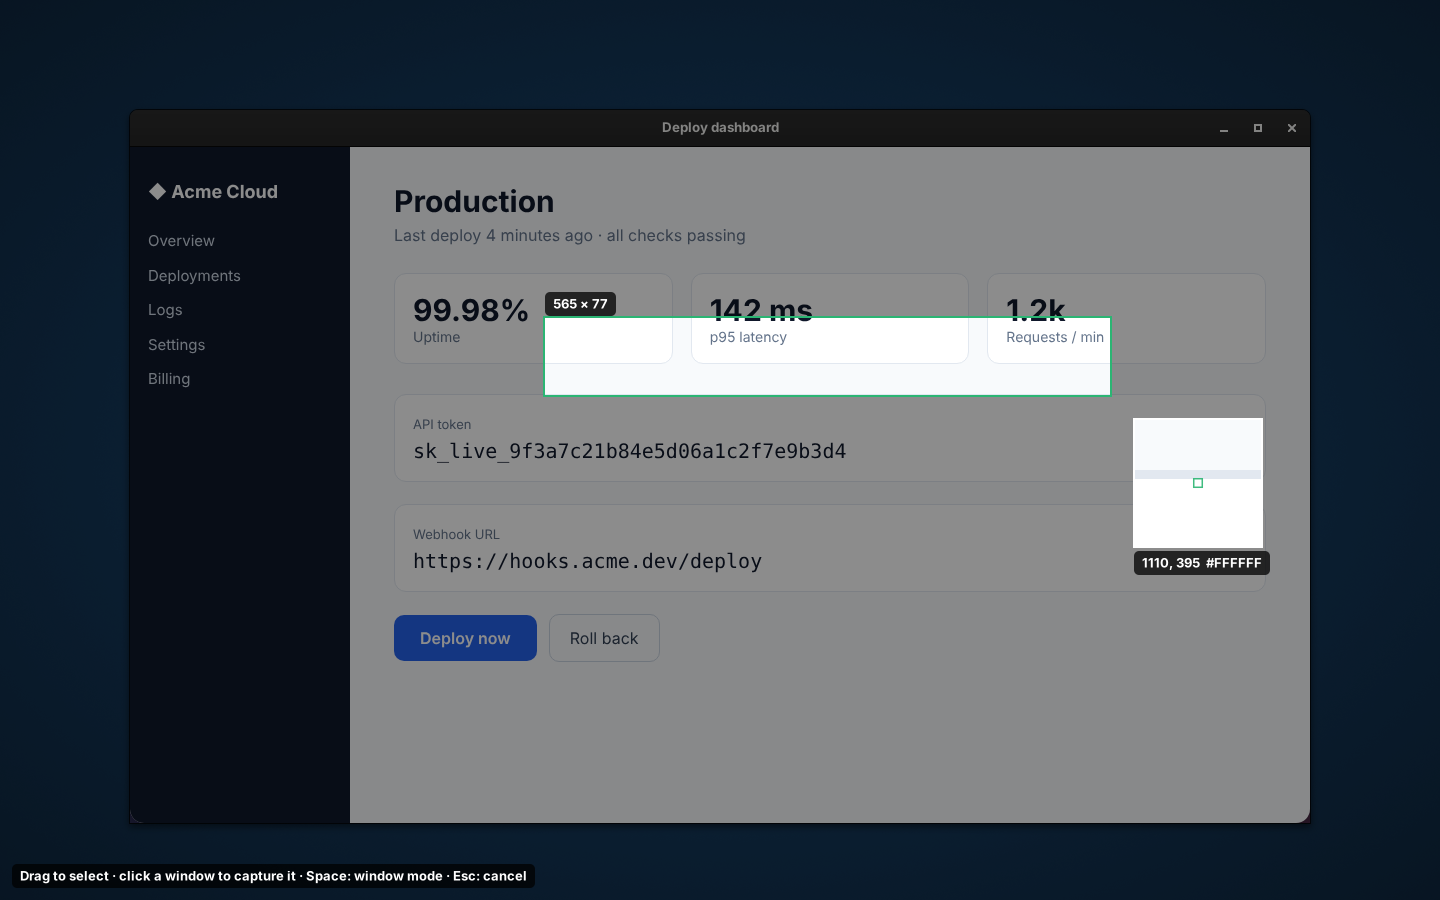
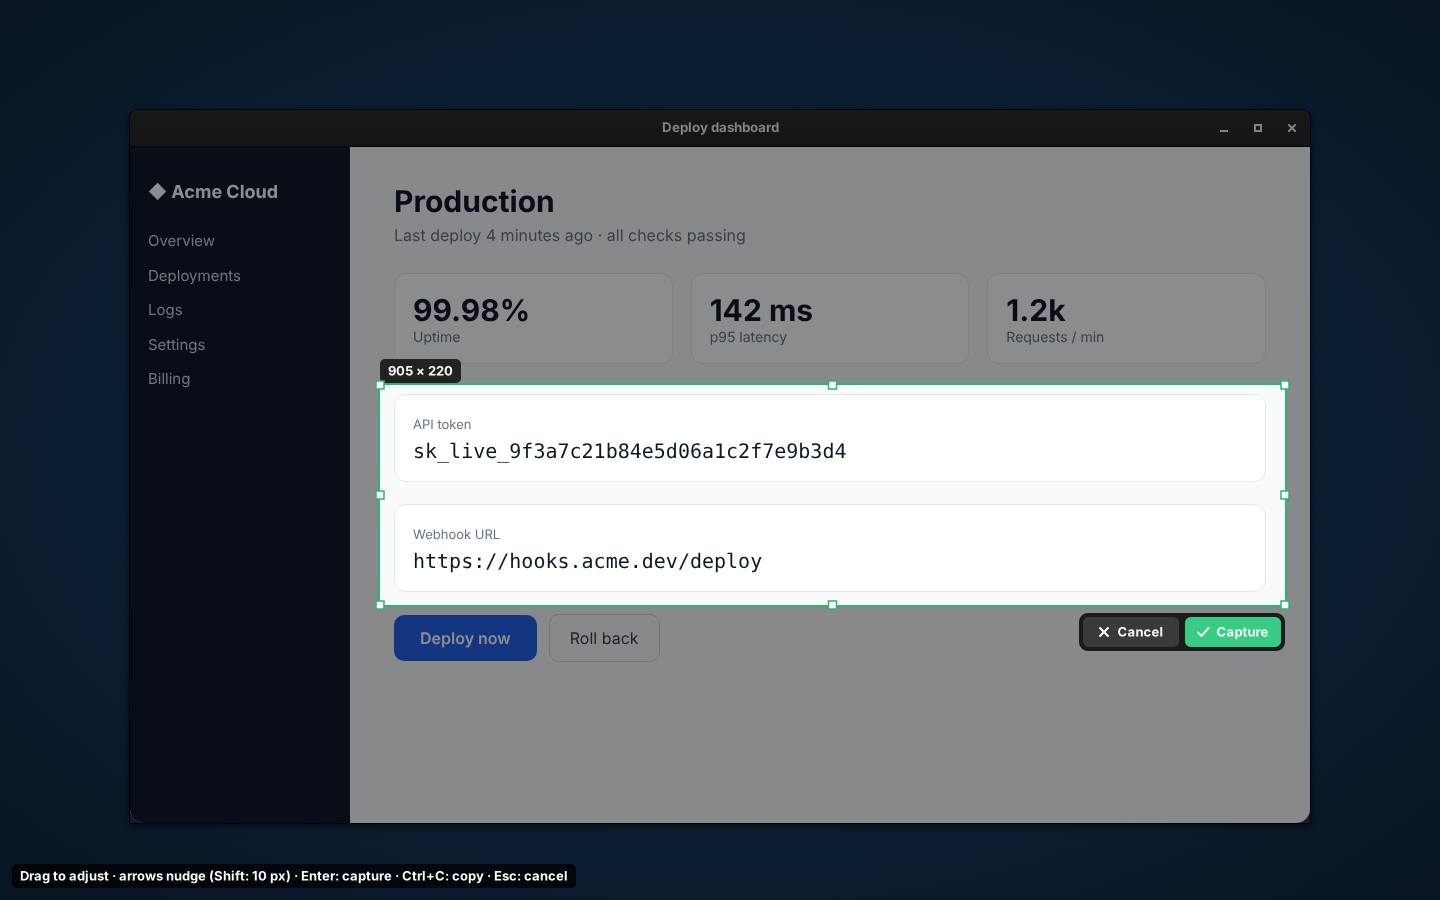
Website: region screenshot shows the adjustable selection
The gallery image now shows the handles, the size label and the Cancel and
Capture buttons; the alt text and caption follow.

Claude-Session: https://claude.ai/code/session_01RaVPpCUXYidZo4phDrCFBo

Changed region(s): [[0.25, 0.3111, 0.9062, 0.7467], [0.0312, 0.9333, 0.4062, 0.9956]]

diff --git a/docs/index.html b/docs/index.html
@@ -174,7 +174,7 @@ footer { padding: 56px 0 40px; color: var(--muted); font-size: 14px; text-align:
       <h2 id="gallery-h">A closer look</h2>
       <p class="lead">Selector, launcher, preferences and the delay countdown.</p>
       <div class="gallery">
-        <figure class="g-region"><div class="shot"><img src="images/region-select.png" width="1440" height="900" loading="lazy" alt="Region selector with a size label and a magnifier over a dashboard"></div><figcaption>Region selection with magnifier</figcaption></figure>
+        <figure class="g-region"><div class="shot"><img src="images/region-select.png" width="1440" height="900" loading="lazy" alt="Region selector with an adjustable selection, size label and Cancel and Capture buttons over a dashboard"></div><figcaption>Adjust the selection, then capture</figcaption></figure>
         <figure class="g-launcher"><div class="shot"><img src="images/launcher.png" width="640" height="340" loading="lazy" alt="Linshot launcher with Region, Window, Full screen and Last region buttons"></div><figcaption>Launcher</figcaption></figure>
         <figure class="g-prefs"><div class="shot"><img src="images/preferences.png" width="600" height="860" loading="lazy" alt="Linshot preferences grouped into Capture, After capture, Saving and shortcuts"></div><figcaption>Preferences</figcaption></figure>
         <figure class="g-countdown"><div class="shot"><img src="images/countdown.png" width="520" height="220" loading="lazy" alt="Countdown bubble showing seconds until a delayed capture"></div><figcaption>Delayed capture countdown</figcaption></figure>
